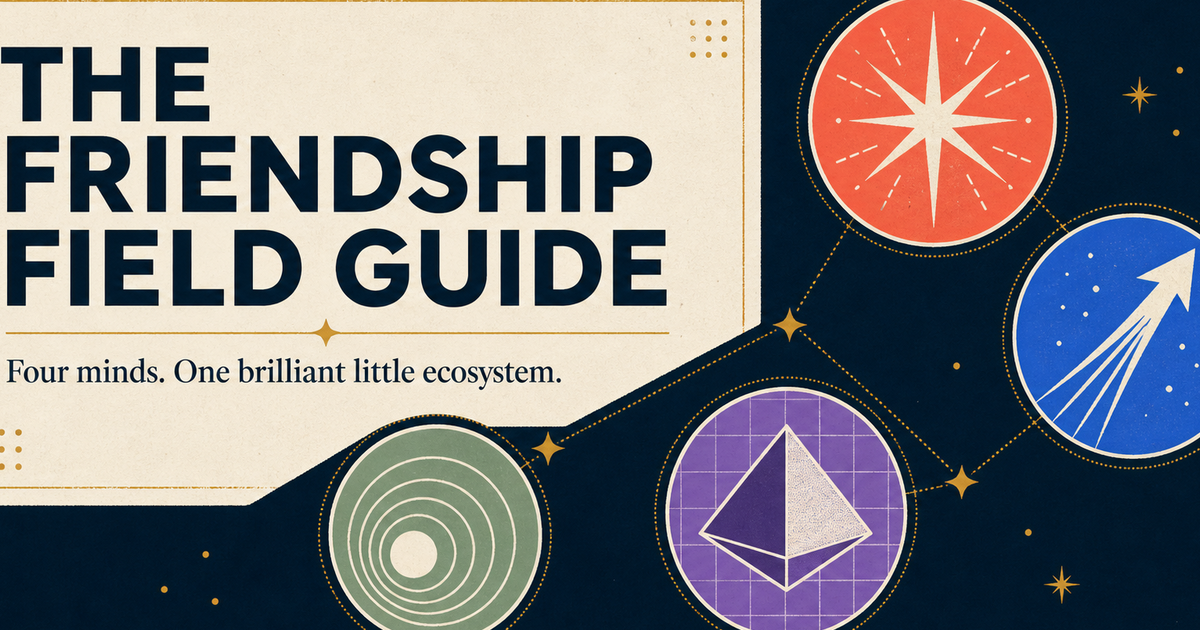
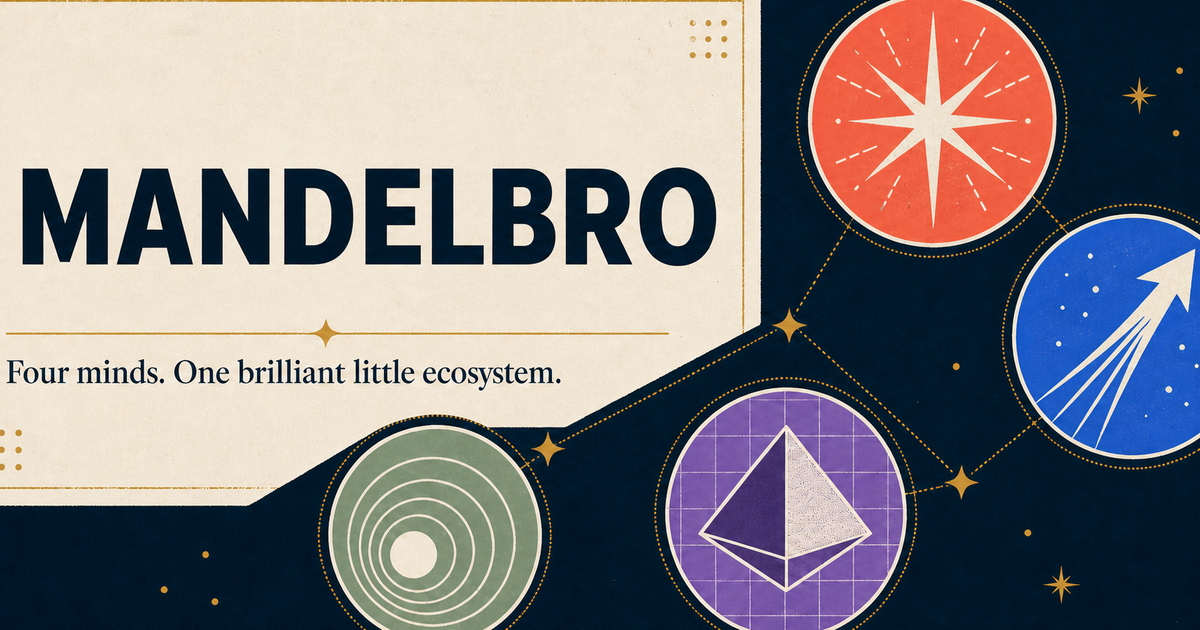
Rename project to Mandelbro

diff --git a/app/layout.tsx b/app/layout.tsx
@@ -1,22 +1,22 @@
 import type { Metadata } from "next";
 import "./globals.css";
 
-const siteUrl = "https://akurilin.github.io/friendship-field-guide";
+const siteUrl = "https://akurilin.github.io/mandelbro";
 
 export const metadata: Metadata = {
   metadataBase: new URL(siteUrl),
-  title: "The Friendship Field Guide",
-  description: "Four minds. One brilliant little ecosystem. A playful Enneagram field guide for Dan, Alex, Lily, and Tina.",
+  title: "Mandelbro",
+  description: "Four minds. One brilliant little ecosystem. A playful Enneagram field guide for the Mandelbro crew.",
   icons: { icon: "/favicon.png", shortcut: "/favicon.png" },
   openGraph: {
-    title: "The Friendship Field Guide",
+    title: "Mandelbro",
     description: "Four minds. One brilliant little ecosystem.",
     type: "website",
-    images: [{ url: `${siteUrl}/og.png`, width: 1200, height: 630, alt: "The Friendship Field Guide" }],
+    images: [{ url: `${siteUrl}/og.png`, width: 1200, height: 630, alt: "Mandelbro" }],
   },
   twitter: {
     card: "summary_large_image",
-    title: "The Friendship Field Guide",
+    title: "Mandelbro",
     description: "Four minds. One brilliant little ecosystem.",
     images: [`${siteUrl}/og.png`],
   },

diff --git a/app/page.tsx b/app/page.tsx
@@ -265,9 +265,9 @@ export default function Home() {
   return (
     <main>
       <header className="site-header">
-        <a className="brand" href="#top" aria-label="Friendship Field Guide home">
+        <a className="brand" href="#top" aria-label="Mandelbro home">
           <span className="brand-mark">4</span>
-          <span>Friendship Field Guide</span>
+          <span>Mandelbro</span>
         </a>
         <nav aria-label="Primary navigation">
           <a href="#cast">The four</a>

diff --git a/next.config.ts b/next.config.ts
@@ -1,7 +1,7 @@
 import type { NextConfig } from "next";
 
 const isGitHubPages = process.env.GITHUB_PAGES === "true";
-const repositoryName = process.env.GITHUB_REPOSITORY?.split("/")[1] ?? "friendship-field-guide";
+const repositoryName = process.env.GITHUB_REPOSITORY?.split("/")[1] ?? "mandelbro";
 
 const nextConfig: NextConfig = {
   output: isGitHubPages ? "export" : undefined,

diff --git a/README.md b/README.md
@@ -1,6 +1,6 @@
-# The Friendship Field Guide
+# Mandelbro
 
-A playful, editorial Enneagram field guide for four friends. It translates the group’s score patterns into roles, pairwise dynamics, predictable failure modes, and practical rules for staying close.
+A playful, editorial Enneagram field guide for the Mandelbro WhatsApp group. It translates the group’s score patterns into roles, pairwise dynamics, predictable failure modes, and practical rules for staying close.
 
 The published site intentionally excludes the email addresses and test metadata visible in the original result screenshots.
 
